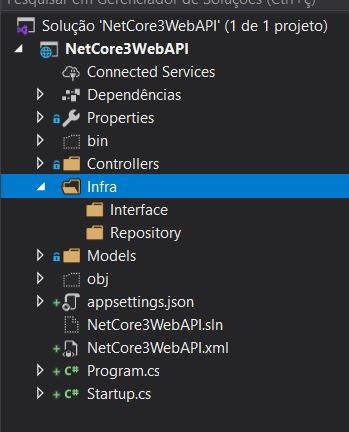
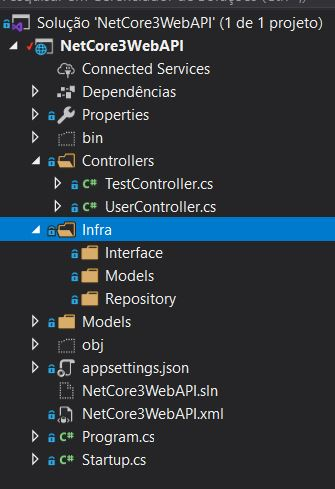
README

Changed region(s): [[0.0, 0.0, 1.0, 0.963], [0.0896, 0.5718, 0.1194, 0.6019]]

diff --git a/Infra/Repository/BaseRepository.cs b/Infra/Repository/BaseRepository.cs
@@ -1,0 +1,52 @@
+using Microsoft.EntityFrameworkCore;
+using NetCore3WebAPI.Infra.Interface;
+using System;
+using System.Collections.Generic;
+using System.Linq;
+using System.Linq.Expressions;
+
+namespace NetCore3WebAPI.Infra.Repository
+{
+    public class BaseRepository<T> : IBaseRepository<T> where T : class
+    {
+        private DbSet<T> entity_;
+        protected DBContext context;
+
+        public BaseRepository(DBContext context)
+        {
+            this.context = context;
+            entity_ = context.Set<T>();
+        }
+
+        public virtual IEnumerable<T> List(Expression<Func<T, bool>> expression)
+        {
+            return entity_.Where(expression).ToList();
+        }
+
+        public bool Any(Expression<Func<T, bool>> expression)
+        {
+            return entity_.Any(expression);
+        }
+
+        public T Save(T entity)
+        {
+            entity_.Add(entity);
+            context.SaveChanges();
+
+            return entity;
+        }
+
+        public T Update(T entity)
+        {
+            entity_.Update(entity);
+            context.SaveChanges();
+            return entity;
+        }
+
+        public void Delete(T entity)
+        {
+            entity_.Remove(entity);
+            context.SaveChanges();
+        }
+    }
+}

diff --git a/Infra/Repository/DBContext.cs b/Infra/Repository/DBContext.cs
@@ -1,0 +1,28 @@
+using Microsoft.EntityFrameworkCore;
+using NetCore3WebAPI.Infra.Models;
+
+namespace NetCore3WebAPI.Infra.Repository
+{
+    public class DBContext: DbContext
+    {
+        public DBContext(DbContextOptions<DBContext> options) : base(options)
+        {
+
+        }
+
+        protected override void OnModelCreating(ModelBuilder modelBuider)
+        {
+            modelBuider.Entity<User>(e =>
+            {
+                e
+                .ToTable("user")
+                .HasKey(k => k.id);
+
+                e
+                .Property(p => p.id)
+                .ValueGeneratedOnAdd();
+            });
+            base.OnModelCreating(modelBuider);
+        }
+    }
+}

diff --git a/Infra/Interface/IBaseRepository.cs b/Infra/Interface/IBaseRepository.cs
@@ -1,0 +1,15 @@
+using System;
+using System.Collections.Generic;
+using System.Linq.Expressions;
+
+namespace NetCore3WebAPI.Infra.Interface
+{
+    public interface IBaseRepository<T> where T : class
+    {
+        IEnumerable<T> List(Expression<Func<T, bool>> expression);
+        bool Any(Expression<Func<T, bool>> expression);
+        T Save(T entity);
+        T Update(T entity);
+        void Delete(T entity);
+    }
+}

diff --git a/Infra/Repository/UserRepository.cs b/Infra/Repository/UserRepository.cs
@@ -1,0 +1,12 @@
+using NetCore3WebAPI.Infra.Interface;
+using NetCore3WebAPI.Infra.Models;
+
+namespace NetCore3WebAPI.Infra.Repository
+{
+    public class UserRepository : BaseRepository<User>, IUserRepository
+    {
+        public UserRepository(DBContext context) : base(context)
+        {
+        }
+    }
+}

diff --git a/Infra/Interface/IUserRepository.cs b/Infra/Interface/IUserRepository.cs
@@ -1,0 +1,8 @@
+using NetCore3WebAPI.Infra.Models;
+
+namespace NetCore3WebAPI.Infra.Interface
+{
+    public interface IUserRepository : IBaseRepository<User>
+    {
+    }
+}

diff --git a/Infra/Models/User.cs b/Infra/Models/User.cs
@@ -1,0 +1,8 @@
+namespace NetCore3WebAPI.Infra.Models
+{
+    public class User
+    {
+        public int id { get; set; }
+        public string name { get; set; }
+    }
+}
